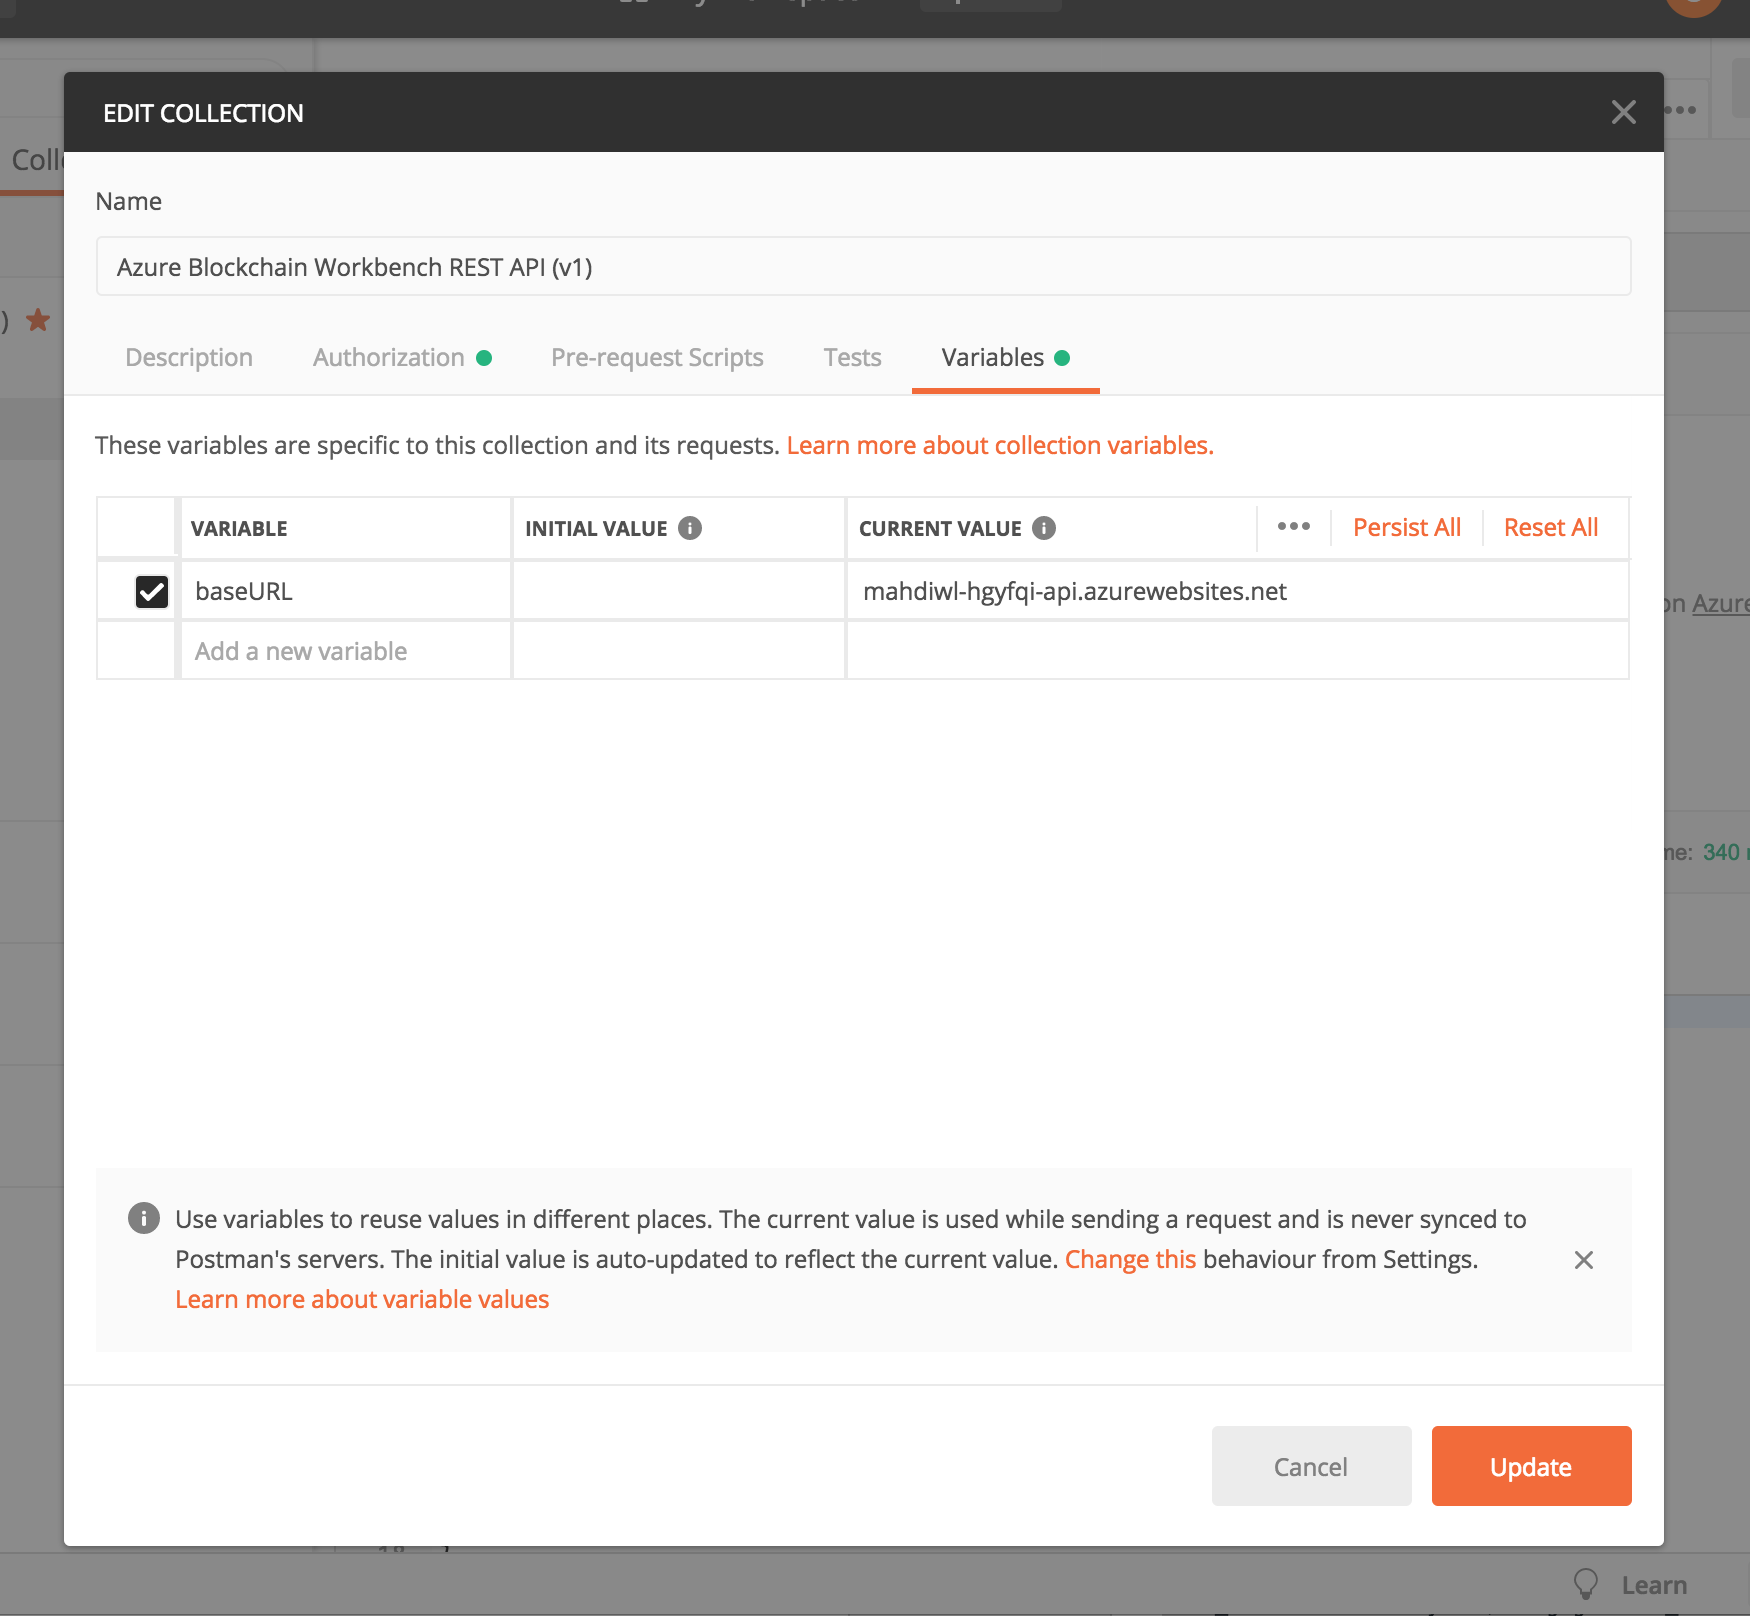
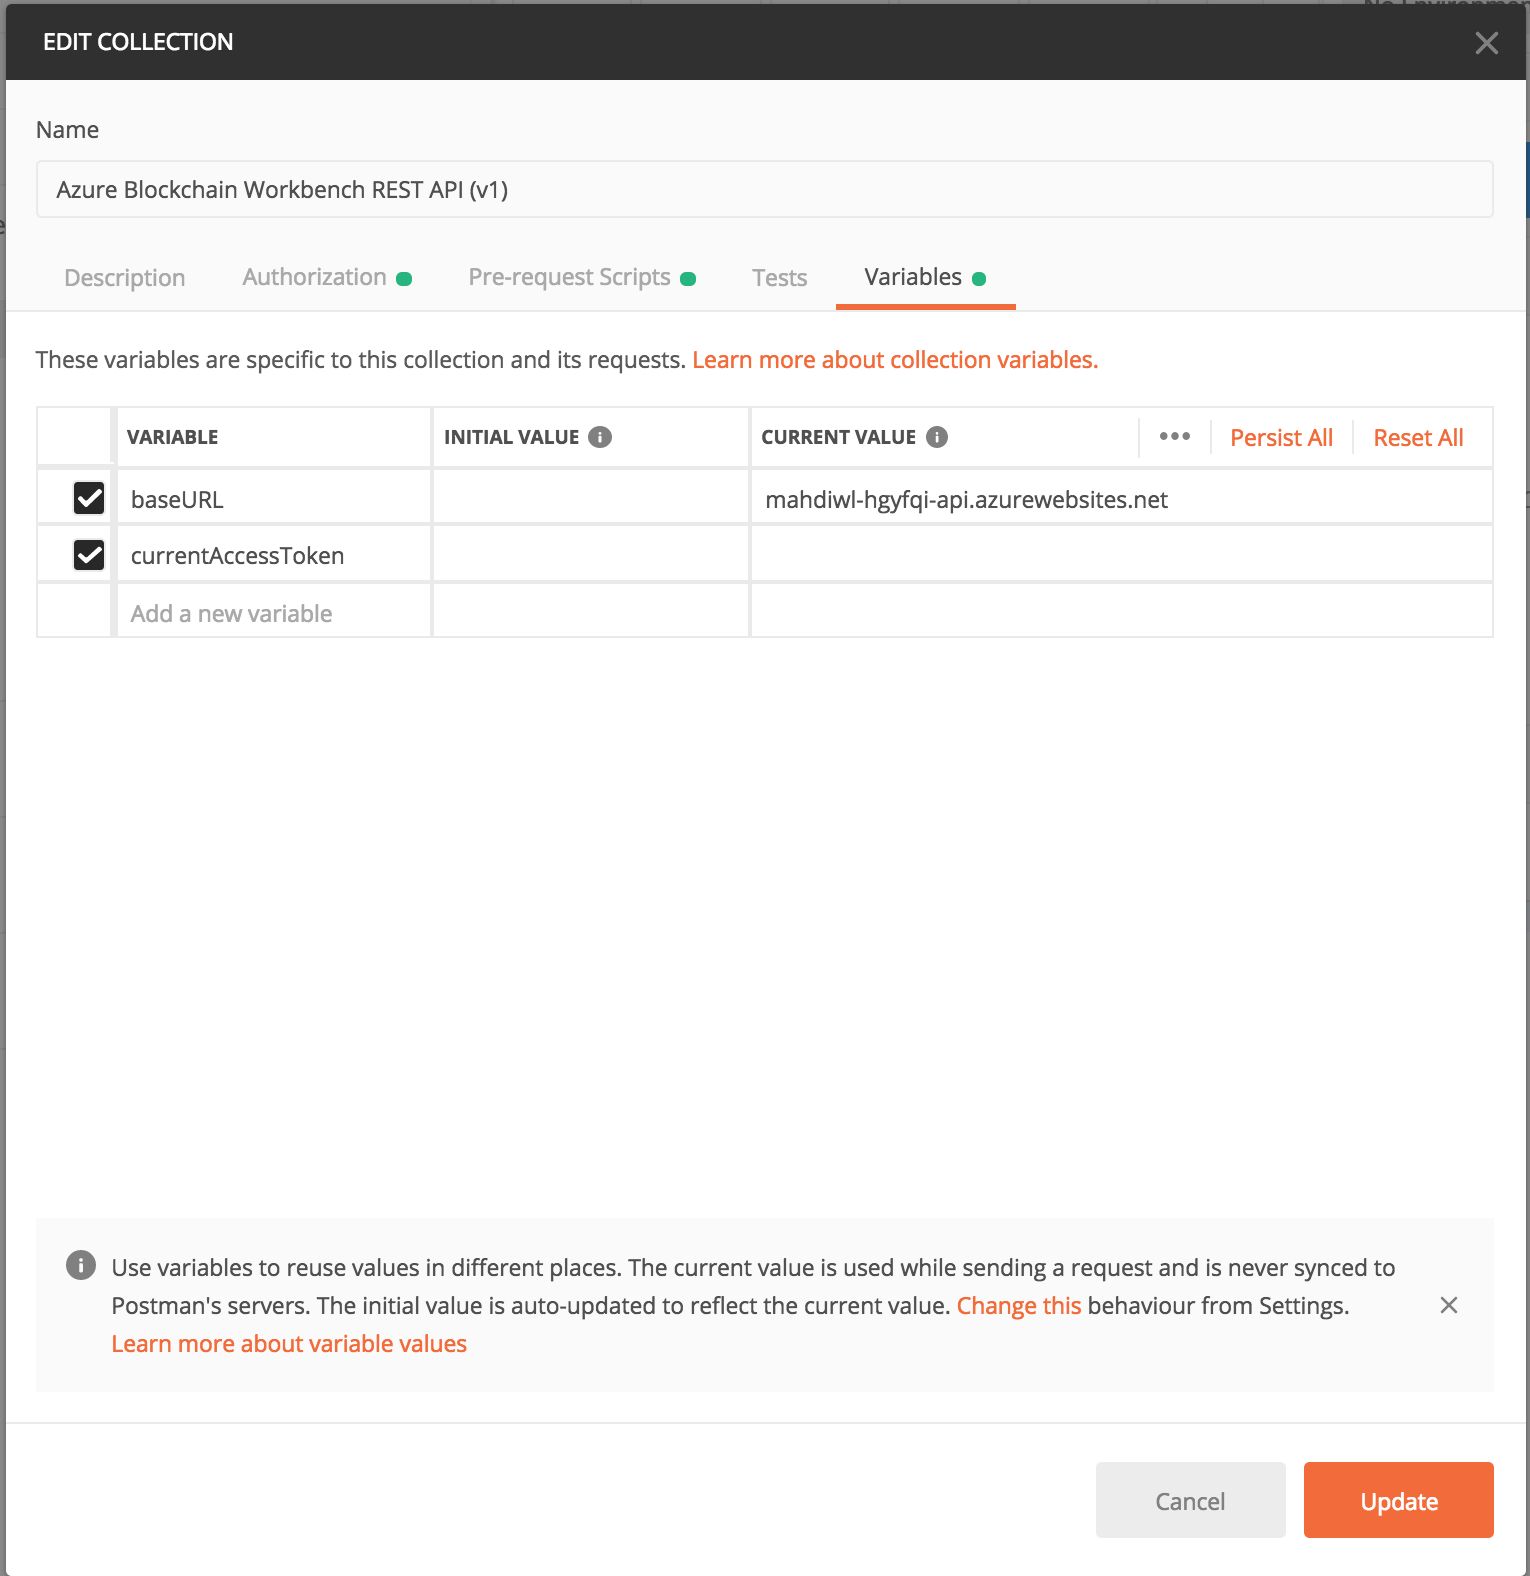
adding pre-req script
adding pre-req script

diff --git a/README.md b/README.md
@@ -4,9 +4,14 @@ A Sample to my blogpost on medium.com on creating your own API to interact with 
 
 https://medium.com/@malirezaie/how-to-enable-programmatic-interaction-with-azure-blockchain-workbench-apis-56c0d95c79c0
 
-For added reference - download the Postman collection in the postman folder and import it. You can set the auth header for the entire collection and also change the API URL as well:
+For added reference - download the Postman collection and import it. By modifying the pre-request script, you can ensure that EVERY request to the Workbench APIs will grab a valid authentication first!
+
+Everything else is set for you in the collection to interact with the Workbench API's. 
+
 ![](images/edit_collection.png)
 
 ![](images/edit_baseURL.png)
 
 ![](images/edit_token.png)
+
+![](images/pre_req_script.png)
